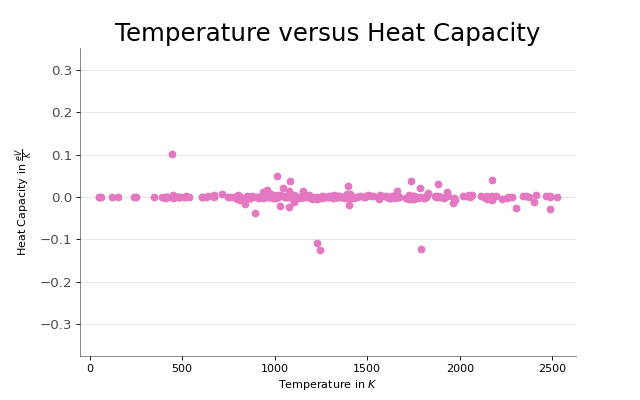
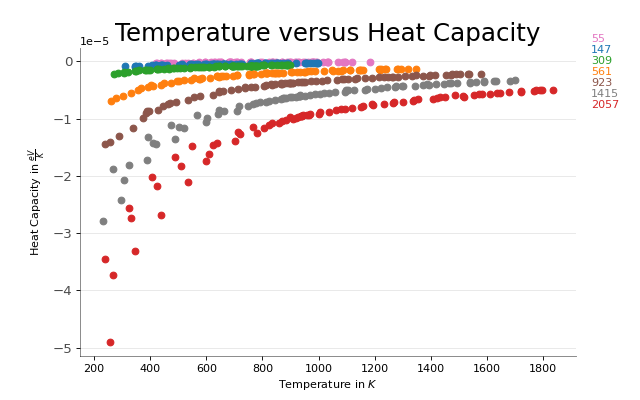
added heat capacity plotter

diff --git a/milestones/07/main.cpp b/milestones/07/main.cpp
@@ -28,30 +28,31 @@ int main() {
     double mass_unit_factor = 103.6;
     double mass = mass_gold * mass_unit_factor;  // unit: g/mol
     double timestep = 0.5;  // unit: fs
-    double total_time = 500000;  // unit: fs
+    double total_time = 80000;  // unit: fs
     double current_time = 0;  // unit: fs
 
     double e_pot = 0;
 
     // Neighbors
-    double neighbors_cutoff = 10;
+    double neighbors_cutoff = 8;
     NeighborList neighbors_list{neighbors_cutoff};
     neighbors_list.update(atoms);
 
     // Thermostat
-    double thermostat_relaxation_time = 500 * timestep;  // 250fs for timestep 0.5fs
+    double thermostat_relaxation_time = 2000 * timestep;  // 1ps for timestep 0.5fs
     double goal_temperature = 300;  // unit: K
     bool use_thermostat = true;
     double thermostat_duration = timestep * 1000;  // unit: fs
 
     // Temperature fitter
     double energy_increment = 0.2;  // unit: eV
-    double wait_after_energy_injection = 2000 * timestep;  // 1ps for timestep 0.5fs
-    double relaxation_time = wait_after_energy_injection + 5000 * timestep;  // 1ps + 2.5ps for timestep 0.5fs
-    double relaxation_time_currently = 0;
-    double average_energy = 0;  // unit: eV
+    double wait_after_energy_injection = 200 * timestep;  // 100fs for timestep 0.5fs
+    double measurement_time = wait_after_energy_injection + 1800 * timestep;  // 100fs + 900fs for timestep 0.5fs
+    double measurement_time_currently = 0;  // unit: fs
     double average_temperature = 0;  // unit: K
     double steps_for_average = 0;
+    double added_energy_sum = 0;  // unit: eV
+    double last_avg_temperature = 0;
 
     std::ofstream traj("milestones/07/ovito/traj_" + cluster_num + ".xyz");
     std::ofstream energy("milestones/07/ovito/energy_" + cluster_num + ".csv");
@@ -60,7 +61,6 @@ int main() {
     e_pot = ducastelle(atoms, neighbors_list, neighbors_cutoff - 1);
 
     while (current_time < total_time) {
-
         // Verlet step 1
         Acceleration_t acceleration = atoms.forces / mass;
         verlet_step1(atoms.positions, atoms.velocities, acceleration, timestep);
@@ -80,28 +80,29 @@ int main() {
                 use_thermostat = false;
                 std::cout << "Stop using Thermostat\n";
             }
-        // Alter temperature by rescaling velocities
+        // Alter temperature by rescaling velocities, then wait for some time, then measure over time, repeat
         } else {
-            relaxation_time_currently += timestep;
-            if (wait_after_energy_injection < relaxation_time_currently && relaxation_time_currently < relaxation_time) {
-                average_energy += e_pot + atoms.e_kin(mass);
+            measurement_time_currently += timestep;
+
+            if (wait_after_energy_injection < measurement_time_currently && measurement_time_currently < measurement_time) {
                 average_temperature += atoms.temperature(mass, false);
                 steps_for_average++;
             }
-            else if (relaxation_time_currently >= relaxation_time) {
-                // Increment energy
-                atoms.velocities *= std::sqrt(1 + energy_increment / atoms.e_kin(mass));
-
+            else if (measurement_time_currently >= measurement_time) {
                 // Write to files
                 write_xyz(traj, atoms);
-                write_E_T(energy, average_energy / steps_for_average, average_temperature / steps_for_average);
+                write_E_T_C(energy, added_energy_sum, average_temperature / steps_for_average, energy_increment / (average_temperature / steps_for_average - last_avg_temperature));
                 // std::cout << current_time << "/" << total_time << "\tPot energy: " << e_pot << "\tKin energy: " << atoms.e_kin(mass) << "\tTotal energy: " << e_pot + atoms.e_kin(mass) << "\tTemperature: " << atoms.temperature(mass, false) << "\n";
-                std::cout << current_time << "/" << total_time << "\tEnergy: " << average_energy / steps_for_average << "\tTemperature: " << average_temperature / steps_for_average << "\n";
+                std::cout << current_time << "/" << total_time << "\tEnergy: " << e_pot + atoms.e_kin(mass) << "\tAdded energy: " << added_energy_sum << "\tTemperature: " << average_temperature / steps_for_average << "\n";
 
-                average_energy = 0;
+                // Increment energy
+                atoms.velocities *= std::sqrt(1 + energy_increment / atoms.e_kin(mass));
+                added_energy_sum += energy_increment;
+
+                last_avg_temperature = average_temperature;
                 average_temperature = 0;
                 steps_for_average = 0;
-                relaxation_time_currently = 0;
+                measurement_time_currently = 0;
             }
         }
 

diff --git a/milestones/07/ovito/plot_heat_capacity_vs_cluster_size.py b/milestones/07/ovito/plot_heat_capacity_vs_cluster_size.py
@@ -5,32 +5,24 @@ import tikzplotlib
 
 # Prepare data
 labels = [r"$E_\mathrm{total}$", r"Temperature}"]
-headers = ["Etotal", "Temperature"]
+headers = ["Etotal", "Temperature", "Heat Capacity"]
 
 # Import Data
-numbers = ["55"]
-# numbers = ["55", "147", "309", "561", "923", "1415", "2057", "2869"]
-# numbers = ["3871", "5083", "6525", "8217", "10179", "12431", "14993", "17885", "21127", "24739", "28741"]
+# numbers = ["55"]
+numbers = ["55", "147", "309", "561", "923", "1415", "2057"]
+# numbers = ["2869", "3871", "5083", "6525", "8217", "10179", "12431", "14993", "17885", "21127", "24739", "28741"]
 # numbers = ["55", "147", "309", "561", "923", "1415", "2057", "2869", "3871",
 #            "5083", "6525", "8217", "10179", "12431", "14993", "17885",
 #            "21127", "24739", "28741"]
 
-dfs = [pd.read_csv('energy_' + num + '.csv', header=None, sep="\t", usecols=[2, 3]) for num in numbers]
+dfs = [pd.read_csv('energy_' + num + '.csv', header=None, sep="\t") for num in numbers]
 for df in dfs:
     # cut away the first
     df.columns = headers
 
-# Calculate Heat Capacities
+# set first element to 0
 for df in dfs:
-    hc = [0]
-    for i in range(1, len(df)):
-        hc.append((df[headers[0]].iloc[i] - df[headers[0]].iloc[i-1]) /
-                  (df[headers[1]].iloc[i] - df[headers[1]].iloc[i-1]))
-        if round(hc[-1], 5) != 0:
-            print(hc[-1], df["Temperature"].iloc[i])
-    df.insert(2, "Heat Capacities", hc)
-# Remove rows where HC is 0
-dfs = [df[df["Heat Capacities"].round(5) != 0] for df in dfs]
+    df.iat[0, 2] = None
 
 # Draw Plot
 mycolors = ['tab:pink', 'tab:blue', 'tab:green', 'tab:orange',
@@ -40,17 +32,15 @@ mycolors = ['tab:pink', 'tab:blue', 'tab:green', 'tab:orange',
 plt.figure(figsize=(8, 5), dpi=80)
 
 for i, df in enumerate(dfs):
-    plt.plot(df[headers[1]], df["Heat Capacities"], "bo", color=mycolors[i % len(mycolors)], label=numbers[i])
-    # plt.text(df["Heat Capacities"].iloc[-1], max(df["Heat Capacities"]) + 50, numbers[i], horizontalalignment='center', color=mycolors[i % len(mycolors)])
+    plt.plot(df[headers[1]], df[headers[2]], "o", color=mycolors[i % len(mycolors)], label=numbers[i])
+    # plt.text(df[headers[2]].iloc[-1], max(df[headers[2]]) + 50, numbers[i], horizontalalignment='center', color=mycolors[i % len(mycolors)])
 
 # Decoration
-plt.xlim(min(dfs[-1]["Temperature"]) - 100, max(dfs[0]["Temperature"]) + 100)
-plt.ylim(min(dfs[-1]["Heat Capacities"]) - 0.25, max(dfs[0]["Heat Capacities"]) + 0.25)
 plt.xlabel(r'Temperature in $K$')
 plt.ylabel(r'Heat Capacity in $\frac{eV}{K}$')
 plt.yticks(fontsize=12, alpha=.7)
 plt.title("Temperature versus Heat Capacity", fontsize=22)
-# matplotx.line_labels()
+matplotx.line_labels()
 
 # Plot grid behind graphs
 plt.grid(axis='y', alpha=.3)

diff --git a/milestones/07/ovito/plot_energy_vs_temp.py b/milestones/07/ovito/plot_energy_vs_temp.py
@@ -8,7 +8,7 @@ labels = [r"$E_\mathrm{total}$", r"Temperature}"]
 headers = ["Etotal", "Temperature"]
 
 # Import Data
-numbers = ["55"]
+numbers = ["923"]
 # numbers = ["55", "147", "309", "561", "923", "1415", "2057", "2869"]
 # numbers = ["3871", "5083", "6525", "8217", "10179", "12431", "14993", "17885", "21127", "24739", "28741"]
 # numbers = ["55", "147", "309", "561", "923", "1415", "2057", "2869", "3871",
@@ -29,11 +29,9 @@ plt.figure(figsize=(8, 5), dpi=80)
 
 for i, df in enumerate(dfs):
     plt.plot(df[headers[0]], df[headers[1]], color=mycolors[i % len(mycolors)], label=numbers[i])
-    plt.text(df[headers[0]].iloc[-1], max(df[headers[1]]) + 50, numbers[i], horizontalalignment='center', color=mycolors[i % len(mycolors)])
+    plt.text(df[headers[0]].iloc[-1], max(df[headers[1]]) + 20, numbers[i], horizontalalignment='center', color=mycolors[i % len(mycolors)])
 
 # Decoration
-plt.xlim(min(dfs[-1][headers[0]]) - 100, max(dfs[0][headers[0]]) + 100)
-plt.ylim(0, 4000)
 plt.ylabel(r'Temperature in $K$')
 plt.xlabel(r'Energy in $eV$')
 plt.yticks(fontsize=12, alpha=.7)

diff --git a/src/write_file.cpp b/src/write_file.cpp
@@ -13,6 +13,10 @@ void write_E_T(std::ofstream &file, double etotal, double tmp) {
     file << etotal << "\t" << tmp << "\n";
 }
 
+void write_E_T_C(std::ofstream &file, double etotal, double tmp, double heat_capacity) {
+    file << etotal << "\t" << tmp << "\t" << heat_capacity << "\n";
+}
+
 void write_lattice_cube(const std::string &filename, int n, double lattice_const_epsilon) {
     std::ofstream file(filename);
     int cube_root_n = std::floor(cbrt(n));

diff --git a/src/write_file.h b/src/write_file.h
@@ -11,6 +11,8 @@ void write_energy(std::ofstream &file, double epot, double ekin, double temperat
 
 void write_E_T(std::ofstream &file, double etotal, double tmp);
 
+void write_E_T_C(std::ofstream &file, double etotal, double tmp, double heat_capacity);
+
 void write_lattice_cube(const std::string &filename, int n, double lattice_const_epsilon);
 
 #endif // MY_MD_CODE_WRITE_FILE_H
